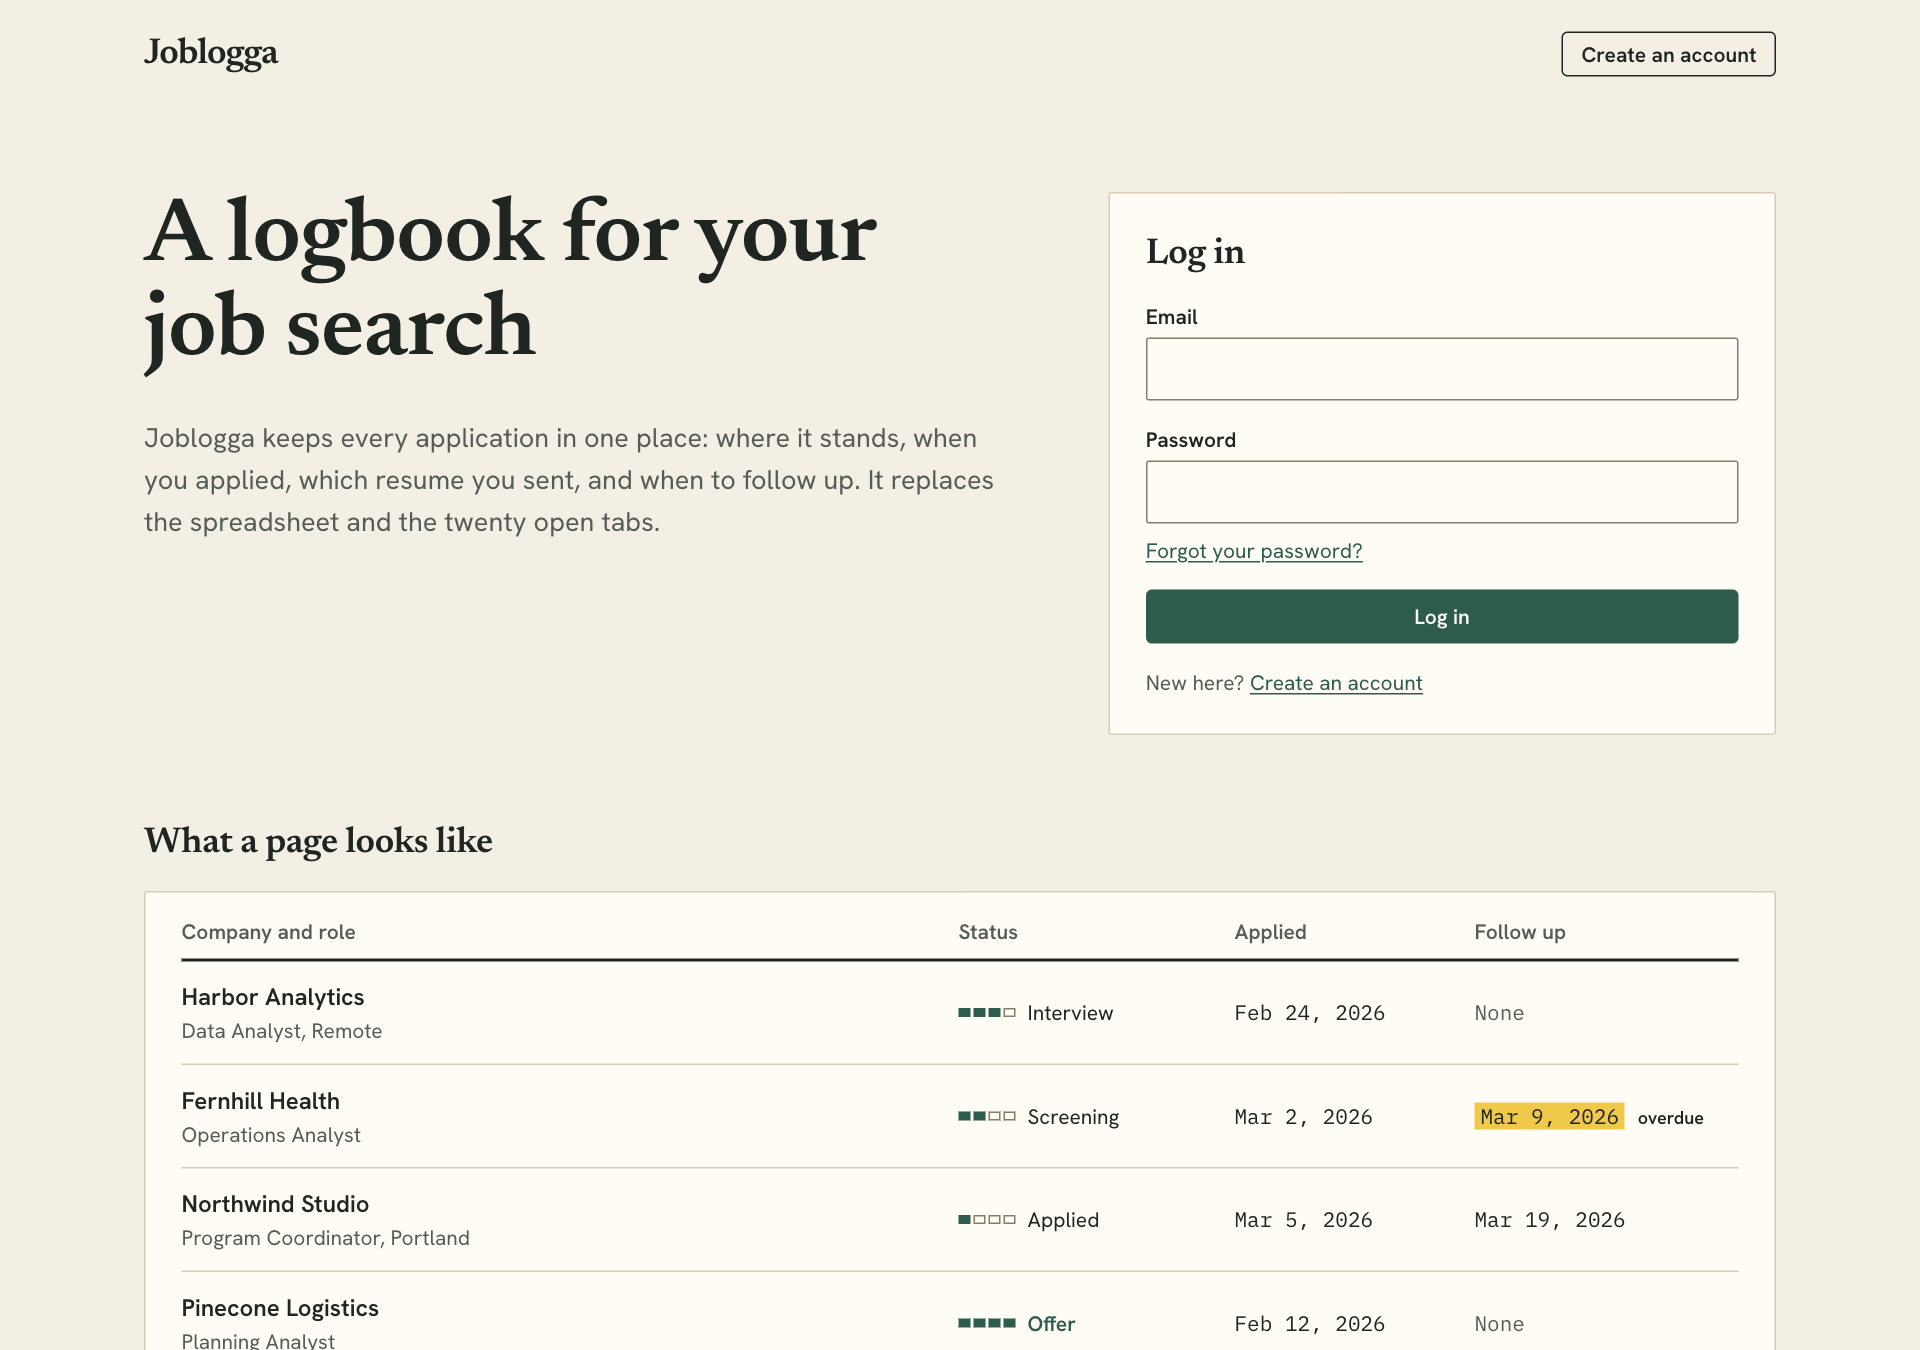
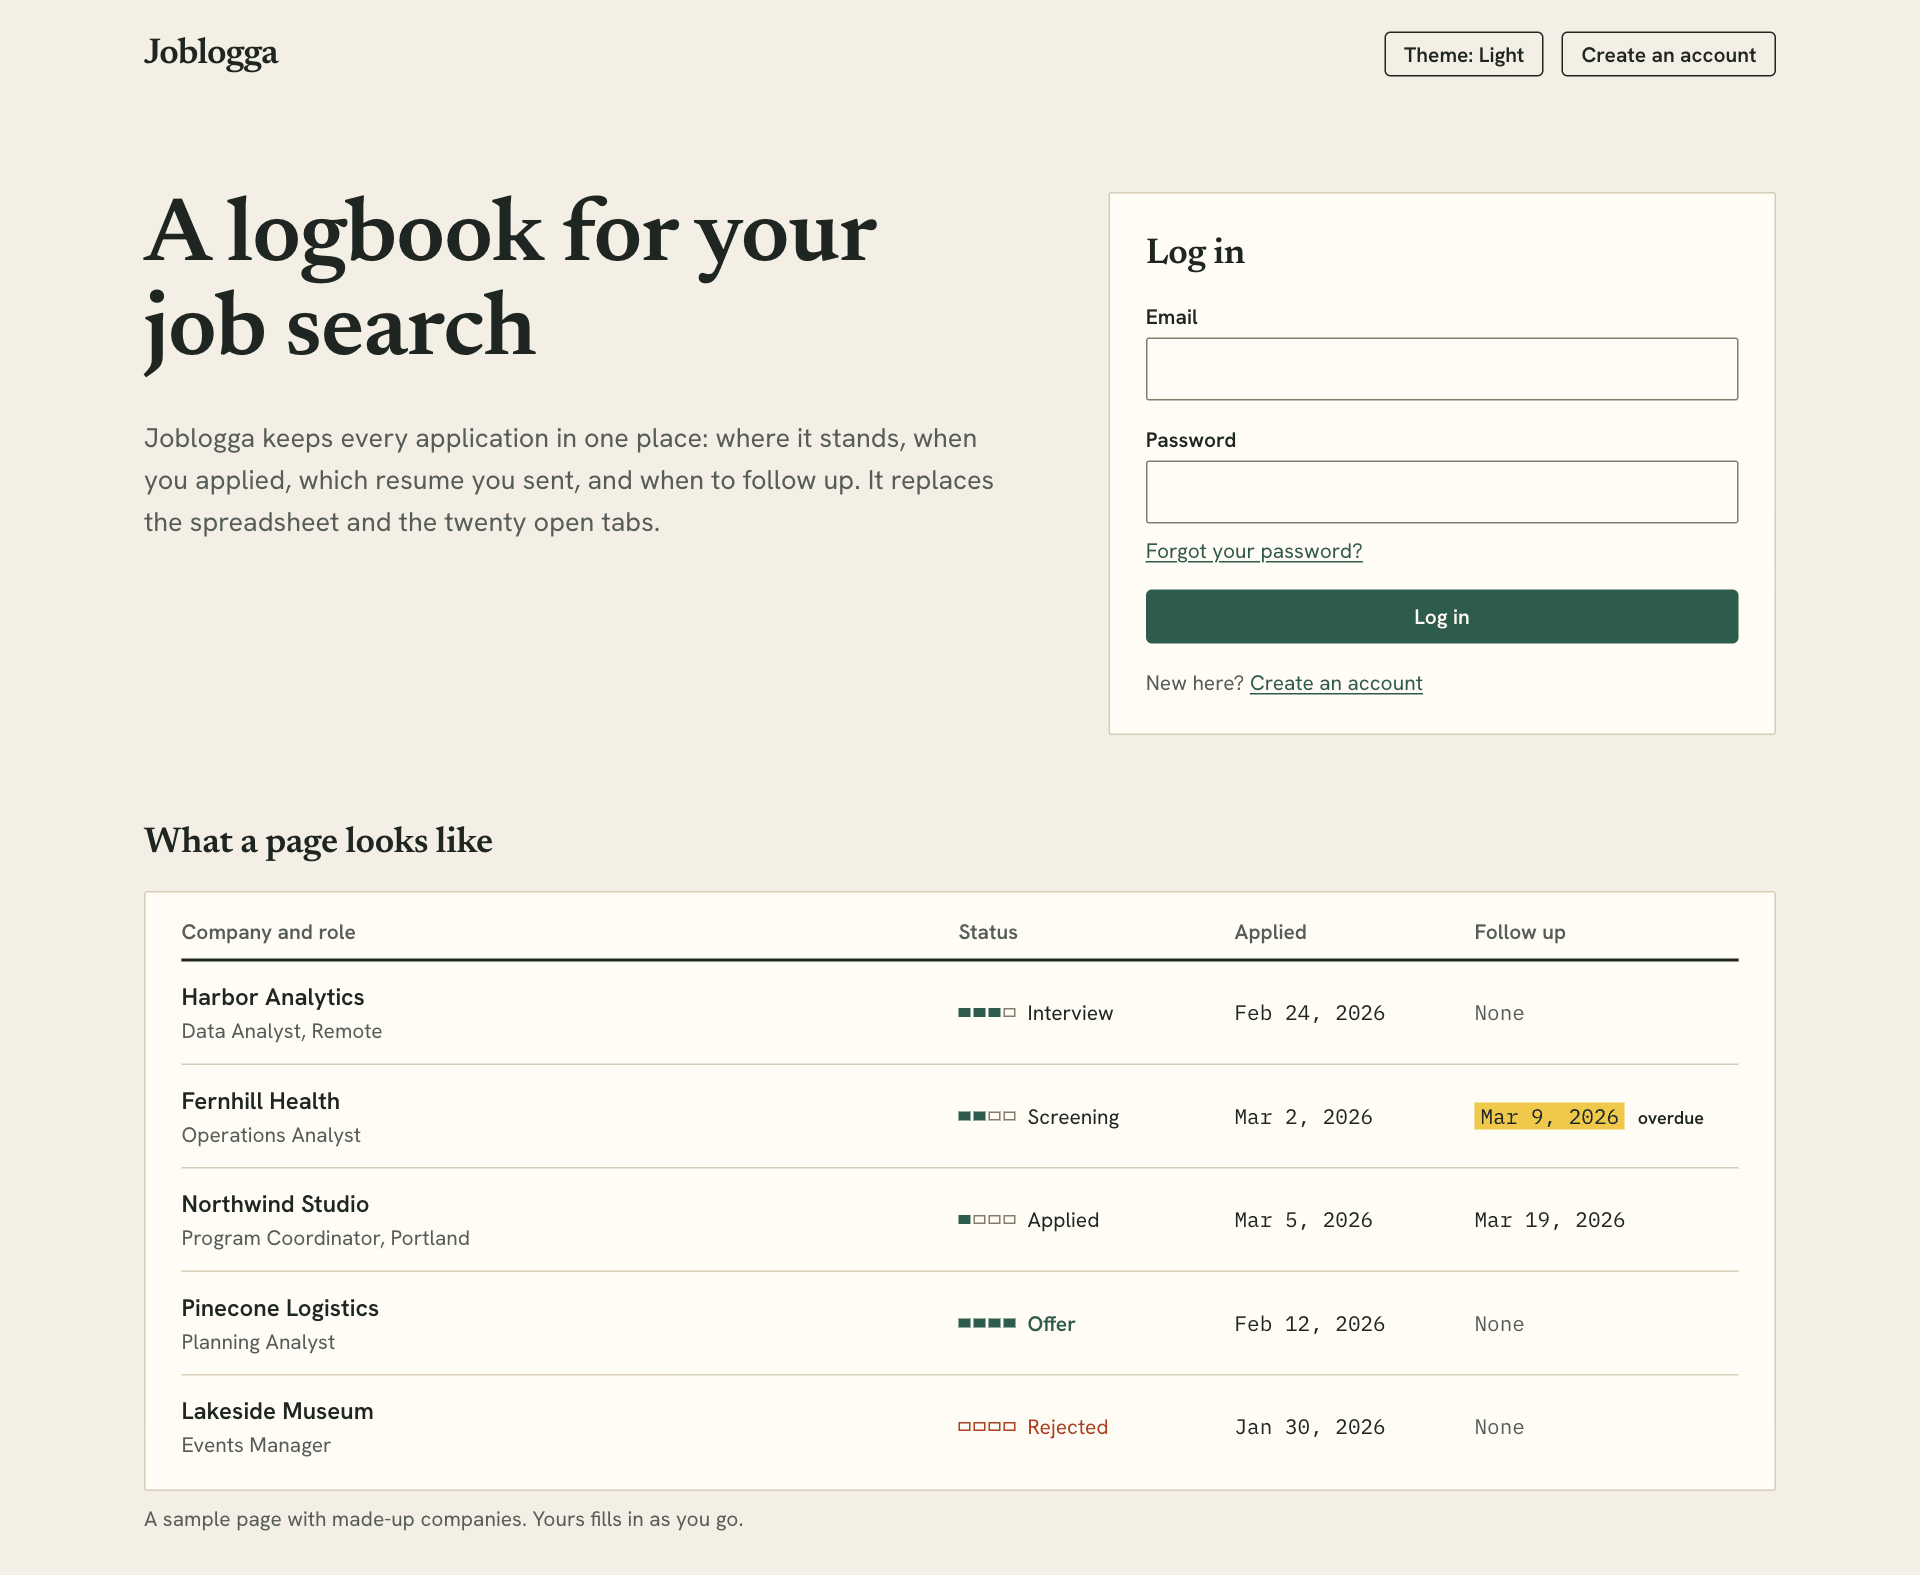
Refresh the README screenshots in light and dark
New shots of the list, board, dashboard (goal card, time in stage, resume versions) and offers comparison, each in both themes from the same demo data, plus a landing page and a hero picture split light and dark. The README shows each in the reader's GitHub theme with a picture element, and says the app has light and dark themes. Replaces the pre-v0.1.3 screenshots.

diff --git a/README.md b/README.md
@@ -4,11 +4,13 @@ A multi-user job application tracker: log applications, move them through a stat
 
 **Live at [joblogga.dolocozy.com](https://joblogga.dolocozy.com)**
 
-![The Joblogga applications list: a ruled ledger with a stage meter per status and an overdue follow-up highlighted](docs/screenshots/applications-list.png)
+![The Joblogga applications list split down the middle: the left half in the light theme, the right half in the dark theme. A ruled ledger with a stage meter per status, tags, and an overdue follow-up highlighted](docs/screenshots/hero-light-dark.png)
+
+*Joblogga has a light and a dark theme. It follows your device's setting by default, and a Theme button on every page overrides it. The picture above is one screenshot, light on the left and dark on the right.*
 
 > **Status: v0.1.3, feature-complete for personal use.** Accounts with email verification, password reset and account deletion, application tracking with status history, saved jobs, interview rounds, tags and archiving, real country and city locations, duplicate warnings, CSV export and import, opt-in follow-up reminder emails, search and filters, a dashboard with response rate and time in each stage, a Kanban board and login rate limiting are all built, tested and deployed. See [Known limitations](#known-limitations).
 
-*Screenshots use fictional demo data.*
+*Every screenshot here uses a demo account with fictional data.*
 
 ## Built with Claude Code
 
@@ -67,12 +69,39 @@ A drop moves the card immediately and puts it back with an error if the server r
 
 ## Screenshots
 
-| | |
-| --- | --- |
-| ![Landing page with the login form beside a sample logbook page](docs/screenshots/landing.png) | ![Kanban board with a column per status](docs/screenshots/kanban-board.png) |
-| **Landing page.** What it is, who it is for, and the login, on one page. | **Kanban board.** Drag a card to change its status (mouse, touch or keyboard). |
-| ![Dashboard with response rate, applications per week, and status breakdown](docs/screenshots/dashboard.png) | |
-| **Dashboard.** Response rate and charts, each with a table view. | |
+Each picture below is shown in your GitHub theme: the light version if GitHub is light, the dark one if it is dark (where a viewer does not support that, the light one is shown). They come from a demo account with made-up companies, seeded by [`docs/screenshots/seed_demo.py`](docs/screenshots/seed_demo.py), and can be retaken after a release by following the [short note beside it](docs/screenshots/README.md).
+
+**Applications list.** A ruled ledger: the stage reached, the place (a city name used in several states, like Springfield or Portland, is told apart by its state), tags, and follow-ups that are due or overdue rise to the top.
+
+<picture>
+  <source media="(prefers-color-scheme: dark)" srcset="docs/screenshots/applications-list-dark.png">
+  <img alt="The applications list: a follow-ups panel with one overdue date highlighted, search and filter controls, and ledger rows each with a stage meter, status, applied date and tags" src="docs/screenshots/applications-list-light.png">
+</picture>
+
+**Kanban board.** Drag a card to change its status (mouse, touch or keyboard). The board is a strip of columns that scrolls sideways; six are shown here.
+
+<picture>
+  <source media="(prefers-color-scheme: dark)" srcset="docs/screenshots/kanban-board-dark.png">
+  <img alt="The Kanban board with a column per status (Saved, Applied, Screening, Interview, Offer, Offer accepted) and a card for each application, showing tags, interview round and an overdue follow-up" src="docs/screenshots/kanban-board-light.png">
+</picture>
+
+**Dashboard.** This week against your weekly goal, response rate, applications per week, where applications stand, time spent in each stage, and response rate by resume version. Each chart has a table twin; the resume card is shown as its table here, where a version with too few applications reads "too few to judge" instead of a misleading percentage.
+
+<picture>
+  <source media="(prefers-color-scheme: dark)" srcset="docs/screenshots/dashboard-dark.png">
+  <img alt="The dashboard: a progress bar for 3 of 6 applications this week, response rate 45 percent, bar charts of applications per week, status breakdown and average days in each stage, and a table of response rate by resume version" src="docs/screenshots/dashboard-light.png">
+</picture>
+
+**Comparing offers.** Offers side by side, with a note when they are in different currencies (nothing is converted).
+
+<picture>
+  <source media="(prefers-color-scheme: dark)" srcset="docs/screenshots/offers-dark.png">
+  <img alt="Two offers compared in columns: a USD offer and a EUR offer, with salary, work mode, location, interview rounds, dates, tags and notes, under a note that the currencies differ" src="docs/screenshots/offers-light.png">
+</picture>
+
+**Landing page.** What it is and who it is for, with the login and a sample logbook page. It looks the same in both themes apart from colour, so there is one picture.
+
+![The landing page: a headline, a short description, the login form, and a sample page of the logbook with made-up companies](docs/screenshots/landing.png)
 
 ## Design
 
